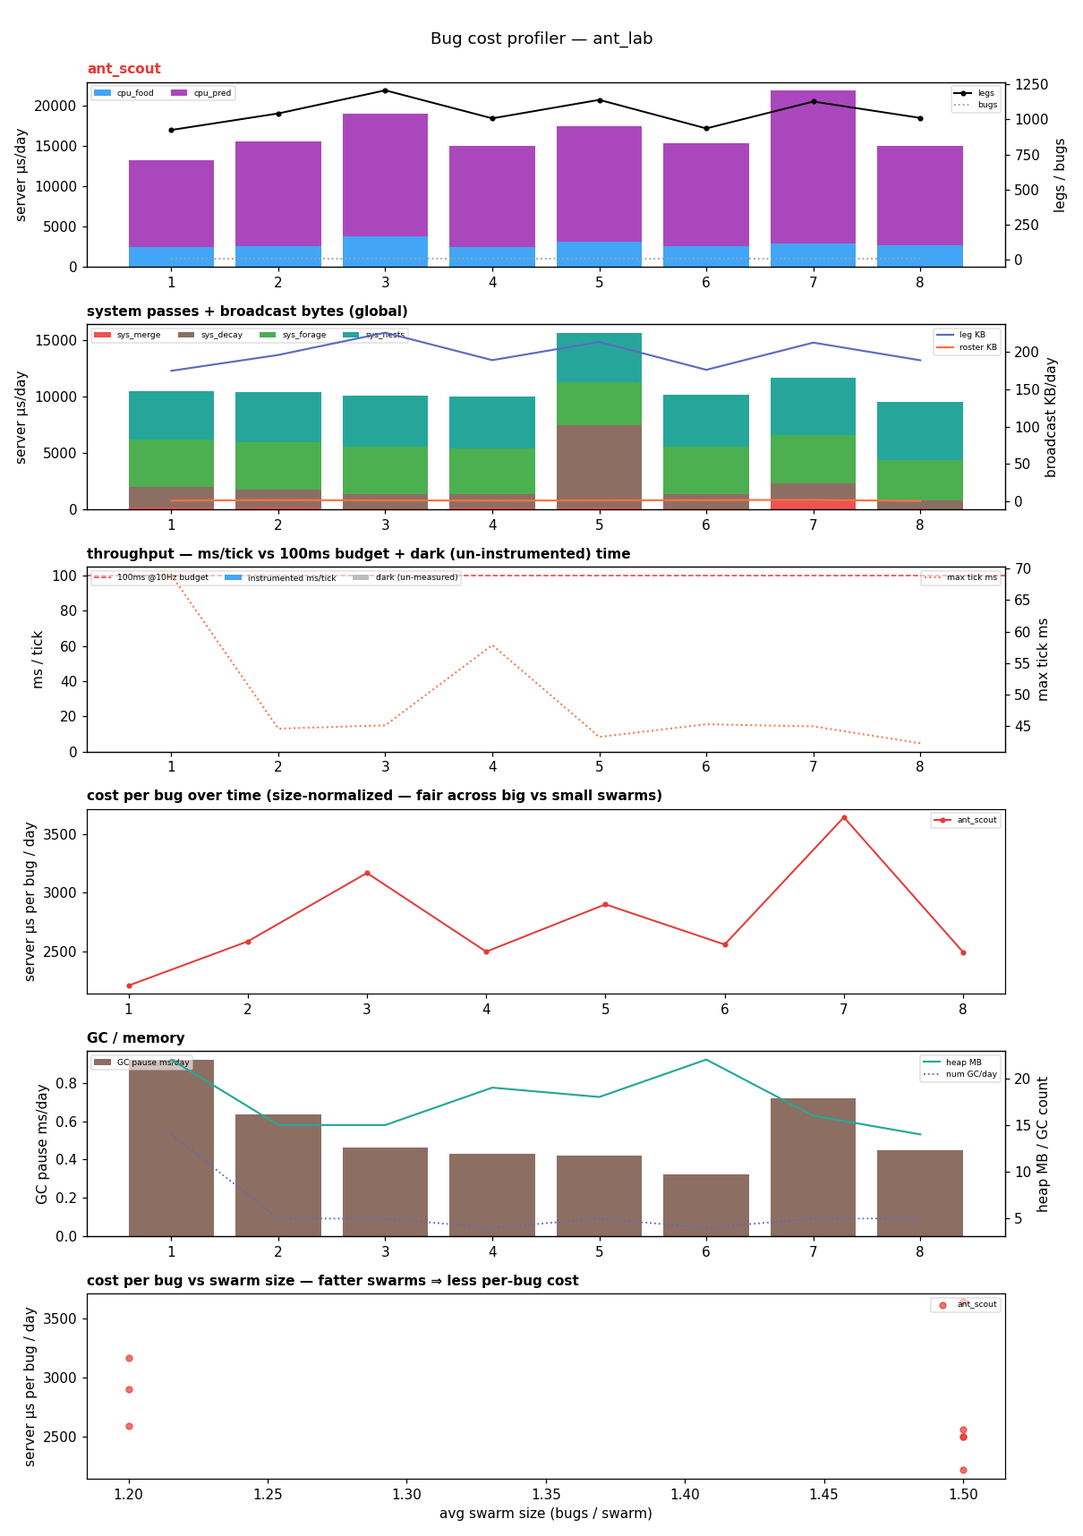
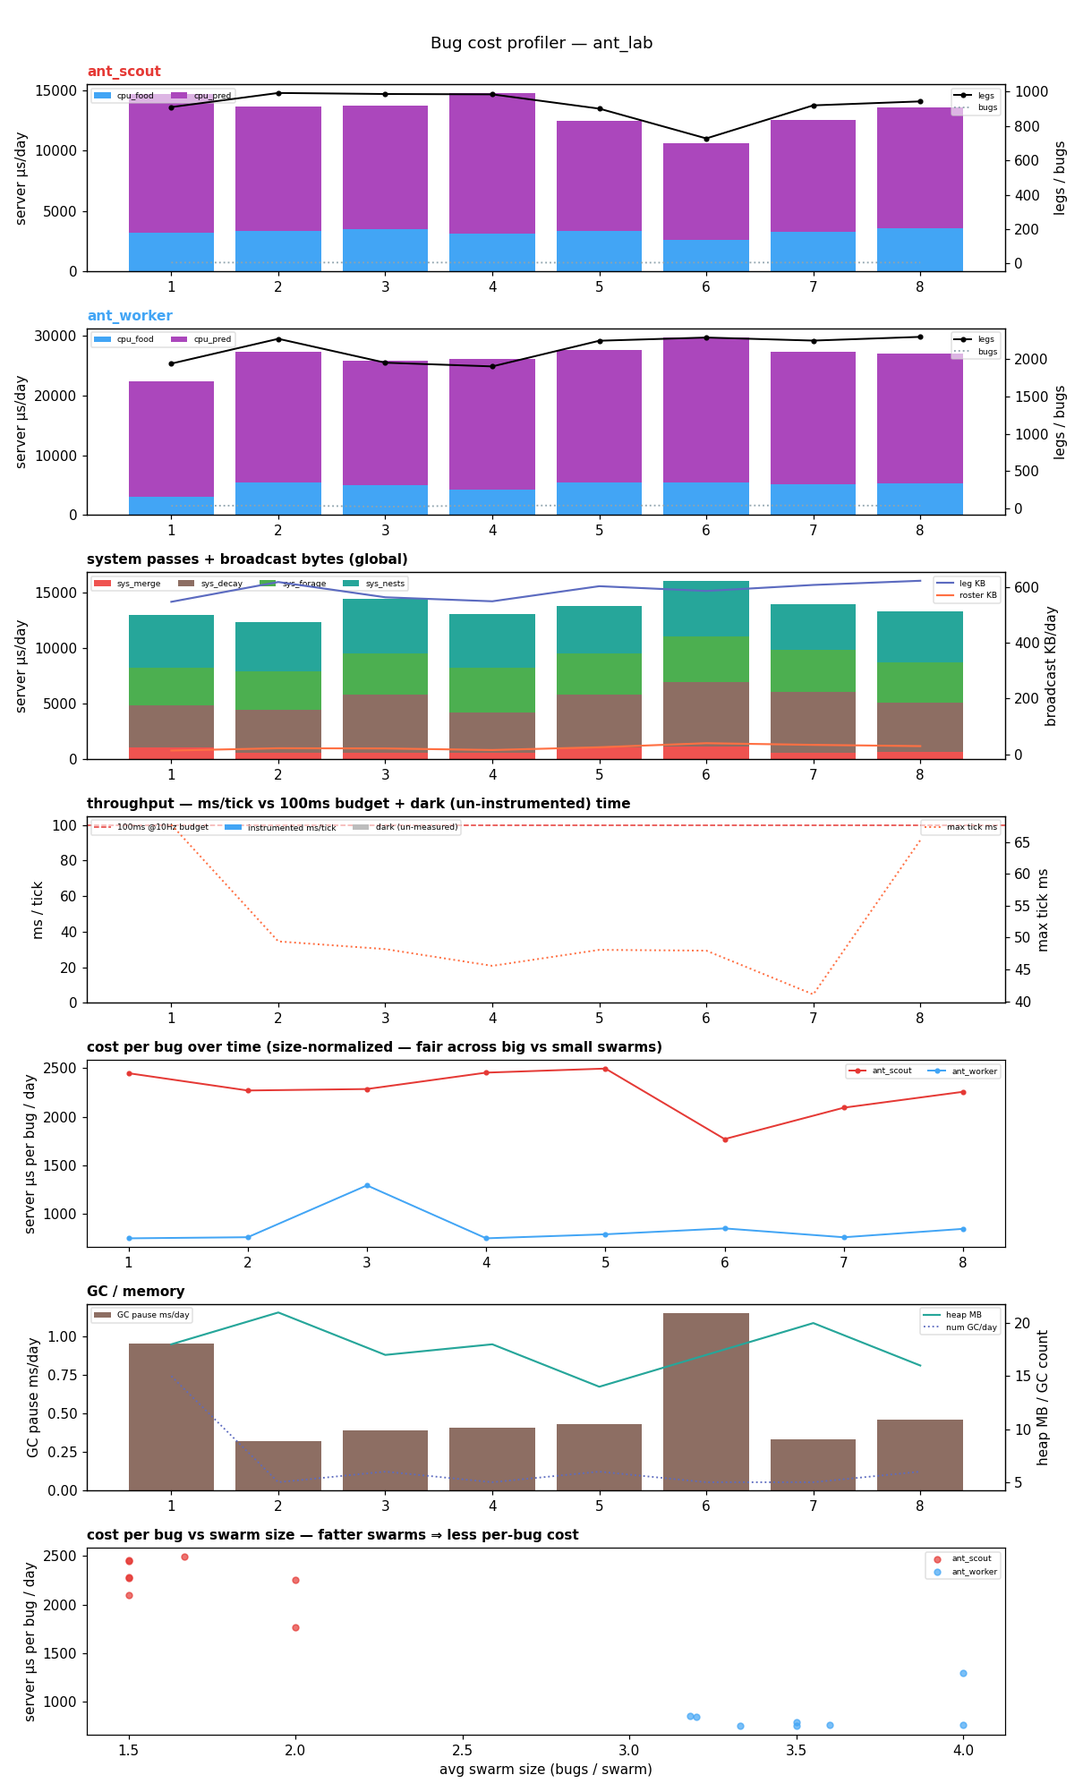
underground-arc P3.3 wrap + P4 package: mechanism proven, feel-bar honestly OPEN
- v8-v11 fixes (each a real mechanism repair, ANTLOG-evidenced):
  recruitment (fresh-site tandem-running, up to 5 workers), relight
  recruitment (re-vouch with no live marchers), site COALESCENCE (a pile
  is ONE site, merge radius 4 — was 15+ memory-churning cell-sites),
  traffic reinforcement (+8/arrival; decay 0.75), necrophoresis (dead_ant
  out of ant attractions — self-corpse trail noise loop killed),
  progress-gated traversal (waypoints must NEAR the site; wander tangles
  sent marchers orbiting — else direct leg)
- 14 ant/colony tests PASS in docker (incl. coalescence geometry); full
  suite green; ANTLOG telemetry kept as tuning instrumentation
- ecology_tuning_log.md: the complete v1->v11 campaign entry with every
  lever, result, and the two named residual bottlenecks (recruit
  eligibility instrumentation; scout patrol bias)
- P4 owner review package: docs/product/investigations/
  underground_arc_review_package.md (zone docs + decisions, ant state,
  furniture, the lab-now vs real-geometry choice)
- BACKLOG: feel-bar OPEN entry (not met, not relaxed)

diff --git a/tools/_generated/ecology_charts/ant_lab/current/index.html b/tools/_generated/ecology_charts/ant_lab/current/index.html
@@ -1,15 +1,15 @@
 <!doctype html><meta charset=utf-8><title>ant_lab — dashboard</title>
 <style>body{background:#111;color:#ddd;font:14px/1.4 system-ui,sans-serif;margin:0;padding:24px}h1{font-size:20px;margin:0 0 2px}h2{font-size:15px;color:#9cf;margin:28px 0 6px}img{max-width:100%;border:1px solid #333;background:#fff;display:block}.t{color:#888;font-size:12px}a{color:#9cf}</style>
 <h1>ant_lab — current charts</h1>
-<div class=t>generated 2026-07-06 19:15:24 — the LATEST run; history in <code>../archive/</code></div>
+<div class=t>generated 2026-07-06 20:53:13 — the LATEST run; history in <code>../archive/</code></div>
 <h2>Performance — CPU by species/phase, throughput vs the 100ms budget, dark (un-measured) time, per-bug, GC</h2>
-<img src='perf.png?v=1783390524'>
+<img src='perf.png?v=1783396392'>
 <h2>Population — per-species counts over game-days</h2>
-<img src='population.png?v=1783390524'>
+<img src='population.png?v=1783396392'>
 <h2>Interactions — births by source / deaths by cause / predation matrix</h2>
-<img src='interactions.png?v=1783390524'>
+<img src='interactions.png?v=1783396392'>
 <h2>Phase portraits — predator-vs-prey trajectories</h2>
 <div class=t>(not generated yet: phase_portraits.png)</div>
 <h2>Bug distribution — daily spatial maps</h2>
-<img src='bugmap_contact_sheet.png?v=1783390524'>
+<img src='bugmap_contact_sheet.png?v=1783396393'>
 <h2>data</h2><div class=t>CSVs in <code>../archive/&lt;run&gt;/</code> and <code>tools/_generated/ecology_charts/</code> (perf_log_*, perf_sys_*).</div>

diff --git a/nakama/modules/world/colony.go b/nakama/modules/world/colony.go
@@ -26,6 +26,11 @@ func nestKeyFor(gx, gy int) string { return fmt.Sprintf("%d,%d", gx, gy) }
 // needs a scout (or diners) to keep vouching for it.
 const scoutRegisterStrength = 12.0
 
+// workerReinforceStrength: one worker ARRIVAL's re-vouch (the ACO traffic loop) —
+// enough that steady traffic sustains a trail indefinitely against decay, while a
+// dead site (no arrivals) retires in under a game-hour.
+const workerReinforceStrength = 8.0
+
 // nearestColonyNest finds the nest an ant swarm belongs to: its OWN nest when it is a
 // resident, else the nearest nest whose occupant family matches the species'
 // nest_occupant (scouts are spawned, not hatched — they adopt the closest brood).
@@ -92,9 +97,9 @@ func (m *Match) scoutBreadcrumb(state *WorldState, swarm *entities.SwarmState, n
 // registering scout's walked route. Same-cell hits refresh strength and keep the
 // SHORTER route (trails straighten over generations — the ACO nod). Weakest site
 // evicted past the cap (lowest strength, lowest cell-key tiebreak).
-func registerCarrionSite(state *WorldState, nestKey string, gx, gy int, add float32, route []entities.RoutePoint) {
+func registerCarrionSite(state *WorldState, nestKey string, gx, gy int, add float32, route []entities.RoutePoint) bool {
 	if nestKey == "" {
-		return
+		return false
 	}
 	if state.ColonyMemory == nil { // defend test/deserialization construction paths
 		state.ColonyMemory = make(map[string]*entities.ColonyMemory)
@@ -105,7 +110,11 @@ func registerCarrionSite(state *WorldState, nestKey string, gx, gy int, add floa
 		state.ColonyMemory[nestKey] = mem
 	}
 	for _, s := range mem.Sites {
-		if s.GridX == gx && s.GridY == gy {
+		// COALESCENCE (v8 finding): a carrion PILE registered as 15+ one-cell sites
+		// that churned the 8-slot memory, split reinforcement, and soaked recruits
+		// on neighbor cells. Anything within the merge radius IS the same site.
+		dx, dy := s.GridX-gx, s.GridY-gy
+		if dx*dx+dy*dy <= entities.SiteMergeRadius*entities.SiteMergeRadius {
 			s.Strength += add
 			if s.Strength > entities.SiteStrengthCap {
 				s.Strength = entities.SiteStrengthCap
@@ -113,12 +122,13 @@ func registerCarrionSite(state *WorldState, nestKey string, gx, gy int, add floa
 			if len(route) > 0 && (len(s.Route) == 0 || len(route) < len(s.Route)) {
 				s.Route = append([]entities.RoutePoint(nil), route...)
 			}
-			return
+			return false
 		}
 	}
 	site := &entities.CarrionSite{GridX: gx, GridY: gy, Strength: add,
 		Route: append([]entities.RoutePoint(nil), route...)}
 	mem.Sites = append(mem.Sites, site)
+	isNew := true
 	if len(mem.Sites) > entities.MaxColonySites {
 		weakest := 0
 		for i, s := range mem.Sites {
@@ -130,6 +140,51 @@ func registerCarrionSite(state *WorldState, nestKey string, gx, gy int, add floa
 		}
 		mem.Sites = append(mem.Sites[:weakest], mem.Sites[weakest+1:]...)
 	}
+	return isNew
+}
+
+// anyMarcherFor reports whether any live swarm is currently committed to the site —
+// the "is this trail lit?" check for relight-recruitment. O(marchers), tiny.
+func anyMarcherFor(state *WorldState, siteKey string) bool {
+	for _, k := range sortedStringKeys(state.MarchTargets) {
+		if state.MarchTargets[k] == siteKey && state.Swarms[k] != nil {
+			return true
+		}
+	}
+	return false
+}
+
+// recruitWorkers is the scout's RECRUITMENT (v7 finding: without it, a first march
+// depended on a worker happening to think hungry+empty-eyed while a far site was
+// alive — ~3 commits in 34 days). A FRESH site immediately commits up to `count`
+// of the colony's workers (sorted swarm ids — deterministic), who march on their
+// next think; their arrivals light the traffic-reinforcement loop. Real ants do
+// exactly this (tandem running / recruitment pheromone).
+func recruitWorkers(state *WorldState, nestKey string, gx, gy int, count int) int {
+	if state.MarchTargets == nil {
+		state.MarchTargets = make(map[string]string)
+	}
+	siteKey := nestKeyFor(gx, gy)
+	recruited := 0
+	for _, id := range sortedStringKeys(state.Swarms) {
+		if recruited >= count {
+			break
+		}
+		sw := state.Swarms[id]
+		sp := state.Species[sw.SpeciesID]
+		if sp == nil || !sp.CarrionForager || sp.ColonyScout {
+			continue
+		}
+		if sw.Satiation >= 90 { // full loads are homing — don't divert them
+			continue
+		}
+		if state.MarchTargets[id] != "" {
+			continue // already on a trail
+		}
+		state.MarchTargets[id] = siteKey
+		recruited++
+	}
+	return recruited
 }
 
 func siteKeyLess(a, b *entities.CarrionSite) bool {
@@ -160,12 +215,17 @@ func bestKnownSite(mem *entities.ColonyMemory, fromX, fromY float32) *entities.C
 	return best
 }
 
-// nextTrailPoint is the STATELESS traversal rule: from the worker's position, find the
-// nearest route point (lowest index tiebreak), then target two points AHEAD (skip-ahead
-// keeps files moving and self-heals after a shove); past the end, target the site cell.
+// nextTrailPoint is the STATELESS traversal rule: nearest route point, then two points
+// ahead — BUT a waypoint only counts if it makes SPATIAL PROGRESS toward the site
+// (v10 finding: scout routes in open terrain are wander TANGLES — index-space
+// skip-ahead sent marchers orbiting mid-map; one lucky arrival per run). A useless
+// waypoint falls back to the DIRECT line: in the open, direct legs converge into the
+// literal file; coherent tunnel routes (scouts that walked home→site corridors) still
+// get followed point by point.
 func nextTrailPoint(site *entities.CarrionSite, fromX, fromY float32) (float32, float32) {
+	sx, sy := float32(site.GridX)+0.5, float32(site.GridY)+0.5
 	if len(site.Route) == 0 {
-		return float32(site.GridX) + 0.5, float32(site.GridY) + 0.5
+		return sx, sy
 	}
 	nearest, nearestSq := 0, float32(0)
 	for i, p := range site.Route {
@@ -177,9 +237,15 @@ func nextTrailPoint(site *entities.CarrionSite, fromX, fromY float32) (float32, 
 	}
 	target := nearest + 2
 	if target >= len(site.Route) {
-		return float32(site.GridX) + 0.5, float32(site.GridY) + 0.5
+		return sx, sy
 	}
-	return site.Route[target].X, site.Route[target].Y
+	wp := site.Route[target]
+	mySiteSq := (sx-fromX)*(sx-fromX) + (sy-fromY)*(sy-fromY)
+	wpSiteSq := (sx-wp.X)*(sx-wp.X) + (sy-wp.Y)*(sy-wp.Y)
+	if wpSiteSq >= mySiteSq { // the waypoint would take us BACKWARD — go direct
+		return sx, sy
+	}
+	return wp.X, wp.Y
 }
 
 // processColonyMemory decays every site each nest pass (30 ticks) and drops dead

diff --git a/nakama/modules/world/predation.go b/nakama/modules/world/predation.go
@@ -249,8 +249,18 @@ func (m *Match) predationThink(
 					if hdx*hdx+hdy*hdy <= species.VisionRange*species.VisionRange {
 						continue
 					}
-					registerCarrionSite(state, nestKey, int(h.X), int(h.Y),
+					isNew := registerCarrionSite(state, nestKey, int(h.X), int(h.Y),
 						scoutRegisterStrength, state.ScoutPaths[swarm.ID])
+					// Recruit on a FRESH site — or RELIGHT a known one whose trail
+					// has lapsed (v9: coalescence keeps sites alive, so fresh-only
+					// recruitment fired 4 times in 34 days).
+					if isNew || !anyMarcherFor(state, nestKeyFor(int(h.X), int(h.Y))) {
+						n := recruitWorkers(state, nestKey, int(h.X), int(h.Y), 5)
+						if n > 0 {
+							logger.Info("ANTLOG recruit nest=%s site=%d,%d workers=%d",
+								nestKey, int(h.X), int(h.Y), n)
+						}
+					}
 					logger.Info("ANTLOG register nest=%s site=%d,%d kind=%s routeLen=%d",
 						nestKey, int(h.X), int(h.Y), h.Kind, len(state.ScoutPaths[swarm.ID]))
 				}
@@ -302,6 +312,13 @@ func (m *Match) predationThink(
 				sx2, sy2 := swarm.WorldX(chunkSize), swarm.WorldY(chunkSize)
 				ddx, ddy := float32(site.GridX)+0.5-sx2, float32(site.GridY)+0.5-sy2
 				if ddx*ddx+ddy*ddy <= species.VisionRange*species.VisionRange && len(visionHits) > 0 {
+					// TRAFFIC REINFORCEMENT (the ACO other-half, v6 finding): an
+					// arrival re-vouches for the site, so a trail SUSTAINS ITSELF
+					// while the food lasts — scouts only have to LIGHT it. When the
+					// food is gone arrivals stop and decay retires the trail (the
+					// designed migrate-on-depletion dynamic).
+					registerCarrionSite(state, nestKey, site.GridX, site.GridY,
+						workerReinforceStrength, nil)
 					delete(state.MarchTargets, swarm.ID) // arrived: dine (decline below)
 					logger.Info("ANTLOG arrive swarm=%s site=%d,%d", swarm.ID, site.GridX, site.GridY)
 				} else {

diff --git a/nakama/modules/world/colony_test.go b/nakama/modules/world/colony_test.go
@@ -30,15 +30,24 @@ func TestColonyMemoryRegisterRefreshEvictDecay(t *testing.T) {
 		t.Fatalf("refresh must keep the SHORTER route (trails straighten): %d points", len(mem.Sites[0].Route))
 	}
 
-	// Eviction: past the cap the WEAKEST site dies.
+	// Coalescence: a registration within the merge radius refreshes the SAME site.
+	registerCarrionSite(state, key, 22, 12, 6, nil)
+	if len(mem.Sites) != 1 {
+		t.Fatalf("nearby registrations must coalesce into one site: %d", len(mem.Sites))
+	}
+	if mem.Sites[0].Strength != 30 {
+		t.Fatalf("coalesced refresh must accumulate: %v", mem.Sites[0].Strength)
+	}
+
+	// Eviction: past the cap the WEAKEST site dies (sites spread beyond the merge radius).
 	for i := 0; i < entities.MaxColonySites; i++ {
-		registerCarrionSite(state, key, 30+i, 10, float32(20+i), nil)
+		registerCarrionSite(state, key, 40+i*10, 10, float32(20+i), nil)
 	}
 	if len(mem.Sites) != entities.MaxColonySites {
 		t.Fatalf("memory must cap at %d sites: %d", entities.MaxColonySites, len(mem.Sites))
 	}
 	for _, s := range mem.Sites {
-		if s.GridX == 30 && s.GridY == 10 {
+		if s.GridX == 40 && s.GridY == 10 {
 			t.Fatal("the weakest site (strength 20) must have been evicted")
 		}
 	}

diff --git a/nakama/modules/entities/colony.go b/nakama/modules/entities/colony.go
@@ -46,6 +46,12 @@ const (
 	MaxRouteLen = 24
 	// SiteStrengthCap clamps refreshes so one bonanza can't dominate forever.
 	SiteStrengthCap = 100.0
+	// SiteMergeRadius: registrations within this radius merge into ONE site — a food
+	// PILE is one destination, not a memory-churning constellation of cells (v8).
+	SiteMergeRadius = 4
 	// SiteDecayPerPass drains strength every nest pass (30 ticks) — the age-out.
-	SiteDecayPerPass = 1.5
+	// 0.75 (was 1.5): one scout sighting must live long enough (~50s) for the first
+	// workers to reach a FAR site and light the traffic-reinforcement loop (v6: at
+	// 1.5, sparse-scout memories evaporated before anyone marched).
+	SiteDecayPerPass = 0.75
 )

diff --git a/tools/zonegen/scenes/zone_ant_lab.py b/tools/zonegen/scenes/zone_ant_lab.py
@@ -38,7 +38,7 @@ def build(zone_id="ant_lab"):
     # THREE pools only (the first run's six fed 60 workers forever — the local larder
     # must run DRY periodically or nobody ever marches and no trail can exist).
     for mx, my, mid in [(20, 44, "mushroom_cluster"), (27, 43, "mushroom_brown"),
-                        (23, 55, "mushroom_cluster")]:
+                        (23, 55, "mushroom_cluster"), (30, 50, "mushroom_brown")]:
         Z.place_occupant(mid, mx, my)
 
     # MID-FIELD OBSTACLES: three dirt-block clumps the trail must route around —

diff --git a/docs/product/ecology/ecology_tuning_log.md b/docs/product/ecology/ecology_tuning_log.md
@@ -399,3 +399,45 @@ extinct it. HONEST CAVEATS for the real zone: (1) bees PIN at max_pop 40 with hi
 (19-33/day) — cap-bound, not nectar-bound; the real bound must come from flower density + zone caps in
 bee_meadow_20 (lab balance doesn't transfer, per §1). (2) The wasp square-wave (their known-broken nest
 economy, PREDLOG≈0) predates this work and is unchanged — still the open problem in §6.
+
+## 2026-07-06/07 — ANT TRAILS: the v1→v11 lab campaign (underground-arc P3.3)
+Zone ant_lab (96x96: brood+fungus WEST, carrion bonanza EAST at (72-79,46-51), obstacles
+mid). Every run seed 1337, 600s. Each run fixed a REAL mechanism bug (all committed):
+- v1: colony never founded — BOTH ant species claimed nest_occupant ant_brood; the
+  species-map iteration was unordered (latent nondeterminism). Fix: scout link-only
+  colony_nest_occupant + sorted speciesForNestOccupant. → colony lives (4→60 in a day).
+- v2 (geometry): 6 pools fed 60 workers forever → 3 pools; scout range widened; carrion x20.
+  Result: hunger sag proved food binds; NO eastward trail.
+- v3: THE OSCILLATION TRAP — pool trickle-regen re-captured marchers at the garden edge
+  every think. Fix: march COMMITMENT (MarchTargets, server-only PER-RUN). Tests added.
+- v4: trails formed — to the colony's OWN starvation corpses (Strength/(1+dist) let
+  15-cell corpse sites beat the 48-cell bonanza 10:1; 1342 arrivals inside the garden
+  in v3's version). Fixes: TRAILS ARE FOR FAR FOOD (scouts skip sites within vision of
+  the nest) + ANTLOG telemetry (register/commit/arrive/recruit).
+- v5: op lesson — a timed-out run left config deltas in canonical data; the surgical
+  git-checkout recovery reverted UNCOMMITTED fixes (commit-all-our-work, again).
+- v6: necrophoresis — dead_ant removed from ant attractions (self-corpse trails were a
+  noise loop: starvation → corpses → trails to corpses → more starvation).
+- v7: sparse-scout memories evaporated before anyone marched → traffic REINFORCEMENT
+  (arrivals re-vouch, +8) + decay 1.5→0.75. Commits still rare (joint-probability gate).
+- v8: RECRUITMENT (fresh site → commit up to 5 workers; real-ant tandem-running). Found:
+  the carrion pile registered as 15+ one-cell sites churning the 8-slot memory.
+- v9: SITE COALESCENCE (merge radius 4 — a pile is ONE site). Found: fresh-only
+  recruitment now fires ~4x/34 days (the site never dies).
+- v10: RELIGHT recruitment (re-vouch with no live marchers → recruit). Found: marchers
+  don't arrive — scout routes are wander TANGLES; index-space skip-ahead orbits them.
+- v11: PROGRESS-GATED traversal (a waypoint counts only if it nears the site; else
+  direct leg). Arrivals still ~1/run.
+**STATE: mechanism PROVEN end-to-end** (founding, scouting, registration, recruitment,
+commitment, march, arrival, reinforcement — all fire with ANTLOG evidence; sync gates
+green; zero new ledger events). **FEEL-BAR OPEN** — the visible file has not formed. Two
+named bottlenecks with next levers:
+1. RECRUIT ELIGIBILITY: events find ~1 of ~10 live worker swarms eligible — the filter
+   (sat>=90 / already-committed / species) needs instrumentation to see which condition
+   bites. One logging line + one run.
+2. SCOUT COVERAGE: scouts wander r22 around their SPAWN points forever → the far site is
+   visited ~2-4x per 34 days. Lever: scout PATROL bias (wander anchor drifts / re-anchors
+   to least-recently-visited sectors) — real scouting behavior, small deterministic code.
+NOTE for the zones: tunnel geometry changes this calculus entirely (scouts live IN the
+colony, corridors constrain walks into usable routes, food webs are richer). Re-run the
+bar on ant_tunnels_30's real geometry before more open-field tuning.

diff --git a/docs/product/investigations/underground_arc_review_package.md b/docs/product/investigations/underground_arc_review_package.md
@@ -1,0 +1,55 @@
+# Underground Arc — Owner Review Package (P4, 2026-07-07)
+
+Everything the plan promised for review, in one place. Decisions needed are marked ►.
+
+## 1. The three zone designs (READY for your read)
+- **[ant_tunnels_30.md](../zones/ant_tunnels_30.md)** — (3,0) EASY: lit surface strip
+  continuing Bee Meadow's gradient, block-built tunnel mouths, scout territory, fungus
+  terraces, the mining-camp burrow-seam contract, "files of ants hauling fruit down a
+  sunlit shaft."
+- **[ant_colony_40.md](../zones/ant_colony_40.md)** — (4,0) MEDIUM: the colony city —
+  Great Trunk Tunnel, fungus-garden terraces (one blighted + quarantined), brood
+  nurseries, granaries, the scripted Queen in a fungus-cathedral dome, the Royal Vault,
+  the (4,1) raid seam.
+- **[centipede_cavern_41.md](../zones/centipede_cavern_41.md)** — (4,1) MEDIUM: the
+  beautiful dark — Dripstone Hall, Glowworm Grotto, the Matron den, the rail stub they
+  ran from, spiders' webbed caverns, row-4 ore.
+Each doc carries craft-brief + interest quotas (≥3 secrets, hooks on all 10 landmarks,
+a surprise inversion) and authority labels (owner rulings/D-entries vs candidates).
+
+► **Per-doc "Owner decisions needed" lists** (NPCs: Myrmecologist / Hermit; aphid
+livestock; Matron mini-boss; glowworm as a real species; the two authored rule-bends;
+difficulty label for (4,1); D18 vs the old formic/chitin drop ladders).
+
+## 2. Ants — what is BUILT and PROVEN
+- Two sim species (ant_worker, ant_scout) on the bee's verbatim forager loop; ant_brood
+  nest anchor (structures are BLOCKS per your ruling — ant_mound deprecated); fungus
+  pools on existing mushrooms (bounded, depleting); rotten-fruit wildcard for windfalls;
+  attraction-scoped nest gates (a flower field can't feed an ant colony).
+- Colony memory + scout breadcrumbs + march commitment + recruitment + traffic
+  reinforcement + site coalescence — all server-only soft state (never hashed/saved/
+  snapshotted; the persistence tripwire enforces it), zero new ledger events.
+- **Gates green:** full docker go suite (14 ant/colony tests), sim-determinism, FRESH
+  latejoin co-located AND spawn-apart both SYNC IDENTICAL.
+- **The trail feel-bar is OPEN (not met, not relaxed):** 11 lab runs, each fixing a real
+  mechanism bug (the full chain is in ecology_tuning_log.md). The loop fires end-to-end
+  with log evidence; what's missing is RATE — two named bottlenecks (recruit-eligibility
+  filter needs one instrumented run; scout coverage needs patrol bias). Recommendation:
+  close them either (a) now with ~2 more instrumented runs, or (b) on ant_tunnels_30's
+  REAL tunnel geometry, which changes the calculus in the trail's favor anyway.
+► **Choose (a) finish the bar in the lab now, or (b) build (3,0) first and bar it there.**
+
+## 3. Furniture sets (BUILT as data; sprites queued)
+Floral (8 pieces) · Stone (5 + the existing trio) · Marble accents (3) — collections
+registered, recipes tagged (floral_furniture / stone_works), placeholders render, all
+verified. Sprite batch = reference-generation per set (art_needed.md).
+► Set membership tweaks? (You said you'd check later.)
+
+## 4. Reconciliation shipped with this arc
+Stale underground docs fixed/superseded; lighting FULLY SPECCED + backlogged (your
+Terraria rule captured verbatim); REAL cross-zone bug transfer backlogged (your ruling);
+marble backlogged; 3 new interest lenses (Secret-Keeper / Surprise / Curiosity-Hook).
+
+## 5. What starts after your review
+The zone-BUILD plan: (3,0) → (4,0) → (4,1) through zone-craft (options-first, rendered
+choices), with the ant system landing in (3,0) as its first production zone.

diff --git a/docs/product/BACKLOG.md b/docs/product/BACKLOG.md
@@ -528,6 +528,16 @@ Future: a quarry source in the deep zones (row 4), statues + fountains crafted a
 Stonemason (D27 sculpture yard), and the marble premium furniture tier (P2 of the
 underground-arc plan adds table/bench/bust_marble as stone-set premium overrides).
 
+## Now — ANT TRAIL FEEL-BAR (open; mechanism proven, rate-tuning remains)
+The underground-arc P3 shipped the ant colony sim (species, nest gates, colony memory,
+commitment, recruitment, reinforcement, coalescence — all gated: go suite, determinism,
+latejoin x2 SYNC IDENTICAL, zero new ledger events). The visible nest→carrion FILE has
+not yet formed in the open-field lab: 11 evidence-logged runs (ecology_tuning_log.md),
+two named bottlenecks left — (1) recruit-eligibility filter (needs one instrumented
+run), (2) scout coverage (patrol-bias lever). Owner decides at the review package
+(docs/product/investigations/underground_arc_review_package.md): finish in the lab now,
+or bar it on ant_tunnels_30's real tunnel geometry when built.
+
 ## Later — creatures: ants & spiders (DESIGNED, not built)
 Full approved design: **[design_ants_spiders.md](ecology/design_ants_spiders.md)**. Ants = a foraging colony
 (hill/queen/eggs reuse Nest+Brood; workers forage carrion → carry home via the wasp provisioning loop;
